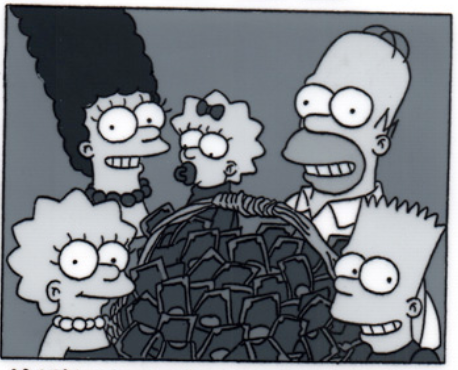
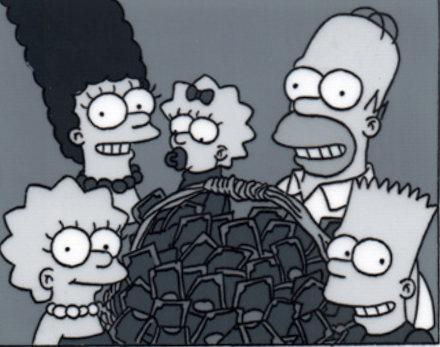
responsive y video
Se ajusto el tamaño de las imagenes y las secciones para dispositivos moviles. Se añadio el video y la seccion de precios

diff --git a/index.html b/index.html
@@ -31,7 +31,7 @@
             </div>
             <div class="buscar">
                 <form action="https://google.com/">
-                    <i class="fas fa-search"> <input type="text"></i>
+                    <i class="fas fa-search"> <input type="text" placeholder="Busca en Google" autocomplete="email"></i>
                 </form>
             </div>
         </nav>
@@ -42,16 +42,20 @@
         </div>
         <div class="row redes">
             <div class="col-md-3">
-                <a href="https://www.facebook.com/" target="_blank"><i class="fab fa-facebook-f" style="color:rgb(30, 82, 226)"> Facebook</i></a>
+                <a href="https://www.facebook.com/" target="_blank"><i class="fab fa-facebook-f"
+                        style="color:rgb(30, 82, 226)"> Facebook</i></a>
             </div>
             <div class="col-md-3">
-                <a href="https://www.instagram.com/" target="_blank"><i class="fab fa-instagram" style="color:rgb(172, 50, 101)"> Instagram</i></a>
+                <a href="https://www.instagram.com/" target="_blank"><i class="fab fa-instagram"
+                        style="color:rgb(172, 50, 101)"> Instagram</i></a>
             </div>
             <div class="col-md-3">
-                <a href="https://www.twitter.com/" target="_blank"><i class="fab fa-twitter" style="color:rgb(0, 153, 153)"> Twitter</i></a>
+                <a href="https://www.twitter.com/" target="_blank"><i class="fab fa-twitter"
+                        style="color:rgb(0, 153, 153)"> Twitter</i></a>
             </div>
             <div class="col-md-3">
-                <a href="https://www.whatsapp.com/" target="_blank"><i class="fab fa-whatsapp" style="color:rgb(27, 95, 27)"> Whatsapp</i></a>
+                <a href="https://www.whatsapp.com/" target="_blank"><i class="fab fa-whatsapp"
+                        style="color:rgb(27, 95, 27)"> Whatsapp</i></a>
             </div>
         </div>
         <div class="contenido">
@@ -116,14 +120,55 @@
                         <img class="img-responsive" src="img/miss-Burns.jpg" alt="Señor Burns vestido de reina">
                         <p>Anciano incontinente gana Miss Teen America</p>
                     </div>
-                    <!-- <div class="noticia3">
-                        <img src="img/ardilla-de-lincon.jpg" alt="ardilla">
-                        <p>Ardilla parecida a Abraham Lincoln encontrada</p>
-                    </div> -->
                 </aside>
                 <div class="contenidoInferior">
-
+                    <div class="noticiaInferior noticia3">
+                        <img class="img-responsive" src="img/familia-simpson.png"
+                            alt="Los Simpsons con una canasta de dinero">
+                        <p>Los Simpson estafan Springfield</p>
+                    </div>
+                    <div class="noticiaInferior noticia4">
+                        <img class="img-responsive" src="img/borrachos-sin-alcohol.jpg" alt="Borrachos sin alcohol">
+                        <p>Alcohol prohibido en Springfiel</p>
+                    </div>
+                    <div class="noticiaInferior noticia5">
+                        <img class="img-responsive" src="img/bart-cometa.jpg" alt="Borrachos sin alcohol">
+                        <p>Niño descubre un cometa</p>
+                    </div>
+                    <div class="noticiaInferior noticia6">
+                        <img class="img-responsive" src="img/homero-comiendo.jpg" alt="Borrachos sin alcohol">
+                        <p>Gran hombre gordo tiene un gran corazón gordo</p>
+                    </div>
                 </div>
+            </div>
+        </div>
+        <div class="videoSeccion">
+            <h2 class="text-center tituloVideo">Saqueo en el Surdo Mercado</h2>
+            <div class="video">
+                <iframe width="560" height="315" src="https://www.youtube.com/embed/u6R6z0Lb7hE"
+                    title="YouTube video player" frameborder="0"
+                    allow="accelerometer; autoplay; clipboard-write; encrypted-media; gyroscope; picture-in-picture"
+                    allowfullscreen>
+                </iframe>
+                <div class="row">
+                    <div class="col-xs-3">
+                        <button class="btn btn-block btn-primary" style="outline:none"><i class="fas fa-thumbs-up"> Like</i></button>
+                    </div>
+                    <div class="col-xs-3">
+                        <button class="btn btn-block btn-danger" style="outline:none"><i class="fas fa-thumbs-down"> Disike</i></button>
+                    </div>
+                    <div class="col-xs-3">
+                        <button class="btn btn-block btn-info" style="outline:none"><i class="fas fa-info-circle"> Info</i></button>
+                    </div>
+                    <div class="col-xs-3">
+                        <button class="btn btn-block btn-success" style="outline:none"><i class="fas fa-paper-plane"> Send</i></button>
+                    </div>
+                </div>
+            </div>
+        </div>
+        <div class="preciosSeccion">
+            <div class="text-center">
+                <span>¡Lleva el periodico Springfiel Shopper por tan solo $2!</span>
             </div>
         </div>
     </div>

diff --git a/style.css b/style.css
@@ -65,6 +65,12 @@ nav div input {
     justify-content: center;
 }
 
+@media screen and (max-width:730px){
+    .titulo span {
+        font-size: 50px;
+    }
+}
+
 .redes {
     width: 800px;
     width: inherit;
@@ -92,13 +98,13 @@ nav div input {
 .contenido {
     width: 100%;
     background-color: rgb(144, 194, 187);
-    padding: 3%;
+    padding: 1%;
     padding-top: 1%;
 }
 
 .portada {
-    width: 100%;
-    max-width: 750px;
+    width: 70%;
+    max-height: 815px;
     background-color: rgb(243, 243, 243);
     font-family: 'Times New Roman', Times, serif;
     padding: 2%;
@@ -158,6 +164,18 @@ nav div input {
     font-family: Arial, Helvetica, sans-serif;
 }
 
+@media screen and (max-width:730px){
+    .local {
+        font-size: 30px;
+    }
+    .tituloPortada {
+        font-size: 20px;
+    }
+    .portada p {
+        font-size: 50%;
+    }
+}
+
 .textos {
     display: flex;
 }
@@ -166,6 +184,17 @@ nav div input {
     width: 19%;
     text-align: justify;
     padding: 2%;
+}
+
+.parrafo p {
+    word-wrap: break-word;
+    font-size: 100%;
+}
+
+@media screen and (max-width:700px){
+    .parrafo p {
+        font-size: 70%;
+    }
 }
 
 .imagen {
@@ -177,15 +206,28 @@ nav div input {
    width: 100%;
 }
 
+@media screen and (max-width:440px){
+    .textos {
+        flex-wrap: wrap;
+    }
+    .imagen {
+        width: 100%;
+        order: 1;
+    }
+    .parrafo {
+        width: 30%;
+        order: 2;
+    }
+}
+
 .contenedor2 {
     display: flex;
     flex-wrap: wrap;
 }
 
 aside {
-    width: 30%;
-    margin-left: 7%;
-    background-color: bisque;
+    width: 29%;
+    margin-left: 1%;
 }
 
 .noticiaDerecha {
@@ -197,21 +239,100 @@ aside img {
 }
 
 aside div p {
+    width: 100%;
     font-size: 30px;
     color: black;
     font-family: 'Times New Roman', Times, serif;
     padding: 3%;
 }
 
-.noticia2 {
-    margin-top: 5%;
-}
-
-@media all and (max-width:1125px){
-
-}
-
 .contenidoInferior {
     width: 100%;
     display: flex;
+}
+
+.contenidoInferior .noticiaInferior {
+    width: 25%;
+    margin: 2%;
+    background-color: white;
+    display: flex;
+    flex-wrap: wrap;
+}
+
+.contenidoInferior .noticiaInferior img {
+    width: 100%;
+    height: 200px;
+}
+
+.contenidoInferior .noticiaInferior p {
+    width: 100%;
+    font-family: 'Times New Roman', Times, serif;
+    font-size: 25px;
+    padding: 3%;
+}
+
+@media screen and (max-width:963px){
+    aside {
+        width: 100%;
+        padding: 0;
+        margin: 0;
+    }
+    .noticiaDerecha {
+        width: 97%;
+        max-height: 300px;
+        display: flex;
+        margin: 1%;
+    }
+    .contenidoInferior{
+        width: 100%;
+        flex-wrap: wrap;
+    }
+    .contenidoInferior .noticiaInferior, .portada {
+        width: 100%;
+    }
+    .contenidoInferior .noticiaInferior img, .noticiaDerecha img  {
+        width: 45%;
+        height: auto;
+    }
+    .contenidoInferior .noticiaInferior p, .noticiaDerecha p {
+        width: 55%;
+        font-size: 40px;
+    }
+    .contenidoInferior {
+        padding: 0;
+    }
+}
+
+@media screen and (max-width:530px){
+    .noticiaDerecha p, .contenidoInferior .noticiaInferior p {
+        font-size: 100%;
+    }
+}
+
+.tituloVideo {
+    margin-top: 3%;
+    font-weight: bold;
+    font-family: sans-serif;
+}
+
+.video {
+    width: 100%;
+    max-width: 700px;
+    margin: auto;
+    margin-top: 2%;
+}
+
+.video iframe {
+    width: 100%;
+}
+
+.preciosSeccion {
+    width: 100%;
+    height: 400px;
+    margin-top: 5%;
+    background-color: blueviolet;
+    display: flex;
+    align-items: center;
+    justify-content: center;
+    color: white;
 }
